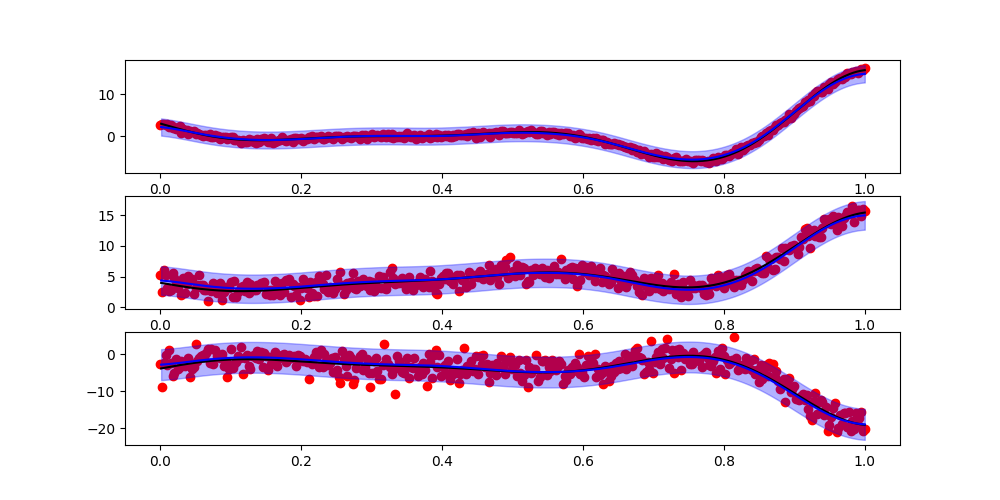
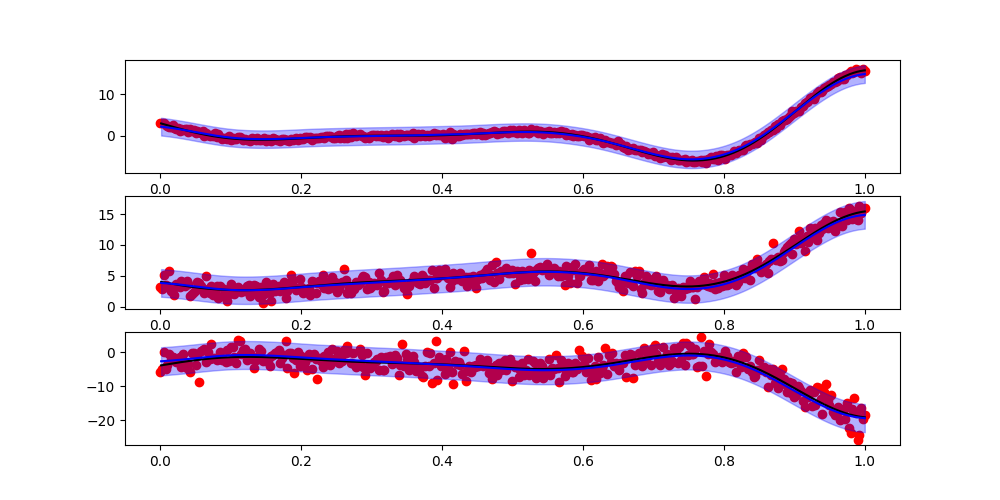
lcgp-rep-3d function needs to be fixed, currently run is stuck at preprocess

diff --git a/illustration-examples/lcgp-rep-3d-illustration.py b/illustration-examples/lcgp-rep-3d-illustration.py
@@ -1,112 +1,150 @@
 import numpy as np
 import tensorflow as tf
-from lcgp import LCGP
-from lcgp import evaluation
-import pathlib
+import time
+import pandas as pd
+import matplotlib.pyplot as plt
+from pathlib import Path
 
-def make_hartmann_tf(alpha, A, P, a=0.0, b=1.0, axis=-1):
+from lcgp import evaluation
+from call_model import LCGPRun
+
+np.random.seed(42)
+tf.random.set_seed(42)
+
+def make_hartmann_tf(alpha, A, P, a=0.0, b=1.0):
+    A_tf = tf.constant(A, dtype=tf.float32)       
+    P_tf = tf.constant(P, dtype=tf.float32)      
+    alpha_tf = tf.constant(alpha, dtype=tf.float32)
+    a_tf = tf.constant(a, dtype=tf.float32)
+    b_tf = tf.constant(b, dtype=tf.float32)
+
     def hartmann(x):
-        r = tf.reduce_sum(A * tf.square(x - P), axis=axis)
-        return (a - tf.reduce_sum(alpha * tf.exp(-r), axis=-1)) / b
+        x_tf = tf.convert_to_tensor(x, dtype=tf.float32) 
+        x_exp = tf.expand_dims(x_tf, axis=1)              
+        r = tf.reduce_sum(A_tf * tf.square(x_exp - P_tf), axis=-1)  
+        val = (a_tf - tf.reduce_sum(alpha_tf * tf.exp(-r), axis=-1)) / b_tf
+        return val
     return hartmann
 
-outputdir = r'illustration-examples/rep/'
-pathlib.Path(outputdir).mkdir(exist_ok=True)
+alpha = np.array([1.0, 1.2, 3.0, 3.2], dtype=np.float32)
+A = np.array([[10.0, 3.0, 17.0, 3.5, 1.7, 8.0],
+              [0.05, 10.0, 17.0, 0.1, 8.0, 14.0],
+              [3.0, 3.5, 1.7, 10.0, 17.0, 8.0],
+              [17.0, 8.0, 0.05, 10.0, 0.1, 14.0]], dtype=np.float32)
+P = (1e-4 * np.array([[1312, 1696, 5569,  124, 8283, 5886],
+                      [2329, 4135, 8307, 3736, 1004, 9991],
+                      [2348, 1451, 3522, 2883, 3047, 6650],
+                      [4047, 8828, 8732, 5743, 1091,  381]], dtype=np.float32))
 
-# Hartmann 6D params
-alpha = np.array([1.0, 1.2, 3.0, 3.2])
-
-A = {}
-A[6] = np.array([[10.0, 3.0, 17.0, 3.5, 1.7, 8.0],
-                [0.05, 10.0, 17.0, 0.1, 8.0, 14.0],
-                [3.0, 3.5, 1.7, 10.0, 17.0, 8.0],
-                [17.0, 8.0, 0.05, 10.0, 0.1, 14.0]
-                ])
-
-P = {}
-P[6] = 1e-4 * np.array([[1312, 1696, 5569,  124, 8283, 5886],
-                        [2329, 4135, 8307, 3736, 1004, 9991],
-                        [2348, 1451, 3522, 2883, 3047, 6650],
-                        [4047, 8828, 8732, 5743, 1091,  381]])
-
-x_min = {}
-x_min[6] = np.array([0.20169, 0.150011, 0.476874, 0.275332, 0.311652, 0.6573])
-
-axis = {}
-axis[6] = -1
-
-a = {}
-a[6] = 0.0
-
-b = {}
-b[6] = 1.0
-
-# Create Hartmann 6D function
-hartmann6d = make_hartmann_tf(alpha, A[6], P[6], a[6], b[6], axis[6])
-
-n = 3
-ntest = 1000
-
-xtrain_uniq = np.random.uniform(0, 1, (n, 6))
-xtest = np.random.uniform(0, 1, (ntest, 6))
-
-reps = np.array((1, 2, 3))
-xtrain_replicated = np.repeat(xtrain_uniq, reps, axis=0)
-
-U = np.zeros((sum(reps), len(reps)))
-for i in range(len(reps)):
-    U[sum(reps[:i]):sum(reps[:(i+1)]), i] = 1
+hartmann6d = make_hartmann_tf(alpha, A, P, a=0.0, b=1.0)
 
 def generate_hartmann_data(x, noisy=True, noise_level=0.01):
-    x_tf = tf.constant(x, dtype=tf.float32)
-    
-    y_base = hartmann6d(x_tf).numpy()
-    
-    y1 = y_base  
+    """
+    x: (n, 6)
+    returns y with shape (3, n)
+    """
+    x = np.asarray(x, dtype=np.float32)
+    y_base = hartmann6d(x).numpy()
+
+    y1 = y_base
     y2 = 0.5 * y_base + 2.0 * np.sum(x, axis=1) - 1.0
-    y3 = -0.8 * y_base - 3.0 * np.prod(x, axis=1) + 2.0  
-    
+    y3 = -0.8 * y_base - 3.0 * np.prod(x, axis=1) + 2.0
+
     if noisy:
-        noise1 = np.random.normal(0, noise_level * 0.1, y1.shape)
-        noise2 = np.random.normal(0, noise_level * 0.2, y2.shape)
-        noise3 = np.random.normal(0, noise_level * 0.3, y3.shape)
-        
-        y1 += noise1
-        y2 += noise2
-        y3 += noise3
+        y1 = y1 + np.random.normal(0, noise_level * 0.1, y1.shape)
+        y2 = y2 + np.random.normal(0, noise_level * 0.2, y2.shape)
+        y3 = y3 + np.random.normal(0, noise_level * 0.3, y3.shape)
 
-    y = np.column_stack((y1, y2, y3))
-    return y.T  
+    y = np.vstack((y1, y2, y3)) 
+    return y
 
-ytrue = generate_hartmann_data(xtest, noisy=False)
-generating_noises_var = np.array([0.005, 0.1, 0.3]) * ytrue.var(1)
+ns = [50, 100]   
+ntest = 500
+results_fig_path = './results_figure_rep/'
+Path(results_fig_path).mkdir(parents=True, exist_ok=True)
 
-ytrain = generate_hartmann_data(xtrain_replicated, noisy=True, noise_level=0.01)
-ytest = generate_hartmann_data(xtest, noisy=True, noise_level=0.01)
+results_rmse = {}
 
-data = {
-    'xtrain': xtrain_replicated,
-    'xtest': xtest,
-    'ytrain': ytrain.T,  
-    'ytest': ytest.T,
-    'ytrue': ytrue.T,
-    'noisevars': generating_noises_var
-}
+for n in ns:
+    print(f'Testing number of samples: {n}')
+    xtrain = np.random.uniform(0, 1, (n, 6)).astype(np.float32)
+    xtest = np.random.uniform(0, 1, (ntest, 6)).astype(np.float32)
 
-model = LCGP(y=ytrain.T, 
-             x=xtrain_replicated,
-             U=U)  
+    ytrue = generate_hartmann_data(xtest, noisy=False)  
+    generating_noises_var = np.array([0.005, 0.1, 0.3]) * ytrue.var(1)
 
-model.fit()
-predmean, predvar = model.predict(xtest)
+    ytrain = generate_hartmann_data(xtrain, noisy=True, noise_level=0.01) 
+    ytest = generate_hartmann_data(xtest, noisy=True, noise_level=0.01)   
 
-rmse = evaluation.rmse(ytrue.T, predmean)
-nrmse = evaluation.normalized_rmse(ytrue.T, predmean)
-pcover, pwidth = evaluation.intervalstats(ytest.T, predmean, predvar)
-dss = evaluation.dss(ytrue.T, predmean, predvar, use_diag=True)
+    data = {
+        'xtrain': xtrain,  
+        'xtest': xtest, 
+        'ytrain': ytrain,  
+        'ytest': ytest,   
+        'ytrue': ytrue   
+    }
 
-print(f"RMSE: {rmse}")
-print(f"Normalized RMSE: {nrmse}")
-print(f"Prediction Coverage: {pcover}")
-print(f"Prediction Width: {pwidth}")
-print(f"DSS: {dss}")
+    modelrun = LCGPRun(
+        runno=f'n{n}_rep',
+        data=data,
+        num_latent=ytrain.shape[0]-1,
+        submethod='rep'   
+    )
+    modelrun.define_model()
+
+    t0 = time.time()
+    modelrun.train()
+    t1 = time.time()
+
+    predmean, predvar = modelrun.predict()  
+
+    rmse = evaluation.rmse(ytrue, predmean)
+    nrmse = evaluation.normalized_rmse(ytrue, predmean)
+    pcover, pwidth = evaluation.intervalstats(ytest, predmean, predvar)
+    dss = evaluation.dss(ytrue, predmean, predvar, use_diag=True)
+
+    result = {
+        'modelname': modelrun.modelname,
+        'modelrun': modelrun.runno,
+        'n': modelrun.n,
+        'traintime': t1 - t0,
+        'rmse': rmse,
+        'nrmse': nrmse,
+        'pcover': pcover,
+        'pwidth': pwidth,
+        'dss': dss
+    }
+
+    df = pd.DataFrame.from_dict(result, orient='index').reset_index()
+    print(df)
+
+    fig, ax = plt.subplots(3, 1, figsize=(10, 6))
+    order_test = np.argsort(xtest[:, 0])
+    order_train = np.argsort(xtrain[:, 0])
+
+    for i in range(3):
+        ax[i].scatter(xtrain[order_train, 0], ytrain[i, order_train],
+                      label='Training Data', s=10, alpha=0.6)
+        ax[i].plot(xtest[order_test, 0], ytrue[i, order_test],
+                   label='True', linewidth=1.5)
+        ax[i].plot(xtest[order_test, 0], predmean[i, order_test],
+                   label='Prediction', linewidth=1.2)
+        ax[i].fill_between(
+            xtest[order_test, 0],
+            predmean[i, order_test] - 2.0 * np.sqrt(predvar[i, order_test]),
+            predmean[i, order_test] + 2.0 * np.sqrt(predvar[i, order_test]),
+            alpha=0.25, label='95% CI'
+        )
+        ax[i].set_ylabel(f'Output {i+1}')
+        if i == 0:
+            ax[i].legend(loc='best', fontsize=8)
+
+    ax[-1].set_xlabel('x[:, 0]')
+    plt.tight_layout()
+    figpath = Path(results_fig_path) / f'lcgp-rep-n-{n}.png'
+    plt.savefig(figpath, dpi=150)
+    plt.close(fig)
+
+    results_rmse[n] = rmse
+
+print("RMSE summary:", results_rmse)

diff --git a/lcgp/lcgp.py b/lcgp/lcgp.py
@@ -172,7 +172,7 @@ class LCGP(gpflow.Module):
             self.ybar_mean: (p, 1) center used to standardize ybar (float64)
             self.ybar_std : (p, 1) spread used to standardize ybar (float64)
         """
-
+        print('in pre process')
         if x_raw is None:
             x_raw = self.x_orig
         if y_raw is None:
@@ -277,39 +277,37 @@ class LCGP(gpflow.Module):
     def init_phi(self, var_threshold: float = None):
         """
         Initialization of orthogonal basis, computed with singular value decomposition.
+        Uses ybar_s if available (replication), else y.
         """
         y_in = getattr(self, 'ybar_s', None)
         if y_in is None:
             y_in = self.y
 
-        y, q = y_in, self.q
-        n, p = self.n, self.p
-        
-        '''
-        Replace y with ybar_s here.
-             singvals, left_u, _ = tf.linalg.svd(self.ybar_s, full_matrices=False)
-        '''
+        y = y_in  
+        n = int(self.n.numpy())
+        p = int(self.p.numpy())
 
-        singvals, left_u, _ = tf.linalg.svd(y, full_matrices=False)
+        singvals, left_u, _ = tf.linalg.svd(y, full_matrices=False)  
 
-        if (q is None) and (var_threshold is None):
+        if (self.q is None) and (var_threshold is None):
             q = p
-        elif (q is None) and (var_threshold is not None):
-            cumvar = tf.cumsum(singvals ** 2) / tf.reduce_sum(singvals ** 2)
-            q = int(tf.argmax(cumvar > var_threshold) + 1)
+        elif (self.q is None) and (var_threshold is not None):
+            s = singvals.numpy()
+            cumvar = np.cumsum(s**2) / np.sum(s**2)
+            idx = np.argmax(cumvar > var_threshold)
+            q = int(idx + 1) if np.any(cumvar > var_threshold) else p
+        else:
+            q = int(self.q)
 
         assert left_u.shape[1] == min(n, p)
-        singvals = singvals[:q]
 
-        # Compute phi and diag_D
-        phi = left_u[:, :q] * tf.sqrt(tf.cast(n, tf.float64)) / singvals
+        sing_q = singvals[:q]
+        phi = left_u[:, :q] * tf.sqrt(tf.cast(n, tf.float64)) / sing_q
         diag_D = tf.reduce_sum(phi ** 2, axis=0)
 
-        '''
-        y_bar here for replication
-        '''
         g = tf.matmul(phi, y, transpose_a=True)
         return g, phi, diag_D, q
+
 
     def init_params(self):
         """
@@ -374,20 +372,28 @@ class LCGP(gpflow.Module):
         opt.minimize(self.loss, self.trainable_variables)
         return
 
+    # def loss(self):
+    #     """
+    #     Computes the loss based on the submethod.
+    #     """
+    #     if self.submethod == 'full':
+    #         return self.neglpost()
+    #     # elif self.submethod == 'elbo':
+    #     #     return self.negelbo()
+    #     # elif self.submethod == 'proflik':
+    #     #     return self.negproflik()
+    #     else:
+    #         raise ValueError("Invalid submethod. Choices are 'full', 'elbo', or 'proflik'.")
+
     def loss(self):
         """
         Computes the loss based on the submethod.
         """
-        if self.submethod == 'full':
-            return self.neglpost()
-        # elif self.submethod == 'elbo':
-        #     return self.negelbo()
-        # elif self.submethod == 'proflik':
-        #     return self.negproflik()
-        else:
-            raise ValueError("Invalid submethod. Choices are 'full', 'elbo', or 'proflik'.")
+        try:
+            return self.submethod_loss_map[self.submethod]()
+        except KeyError:
+            raise ValueError("Invalid submethod. Choices are 'full' or 'rep'.")
 
-    @tf.function
     def neglpost_rep(self):
         '''
         1) Build covariances on unique inputs:
@@ -410,6 +416,7 @@ class LCGP(gpflow.Module):
           + regularization
         '''
         self._ensure_replication()
+        print('in neg log post')
 
         lLmb, lLmb0, lsigma2s, lnugGPs = self.get_param()
         xk = self.x_unique                          # (n,d)
@@ -485,6 +492,7 @@ class LCGP(gpflow.Module):
 
     @tf.function
     def neglpost(self):
+        print('in neg log normal')
         lLmb, lLmb0, lsigma2s, lnugGPs = self.get_param()
         x = self.x
         y = self.y
@@ -603,7 +611,6 @@ class LCGP(gpflow.Module):
           - Tks[k]    = C_k^{-1} - C_k^{-1} S_k C_k^{-1},   S_k = (C_k^{-1}+d_k R)^{-1}
         """
         self._ensure_replication()
-
         lLmb, lLmb0, lsigma2s, lnugGPs = self.get_param()
         xk = self.x_unique
         ybar = self.ybar
